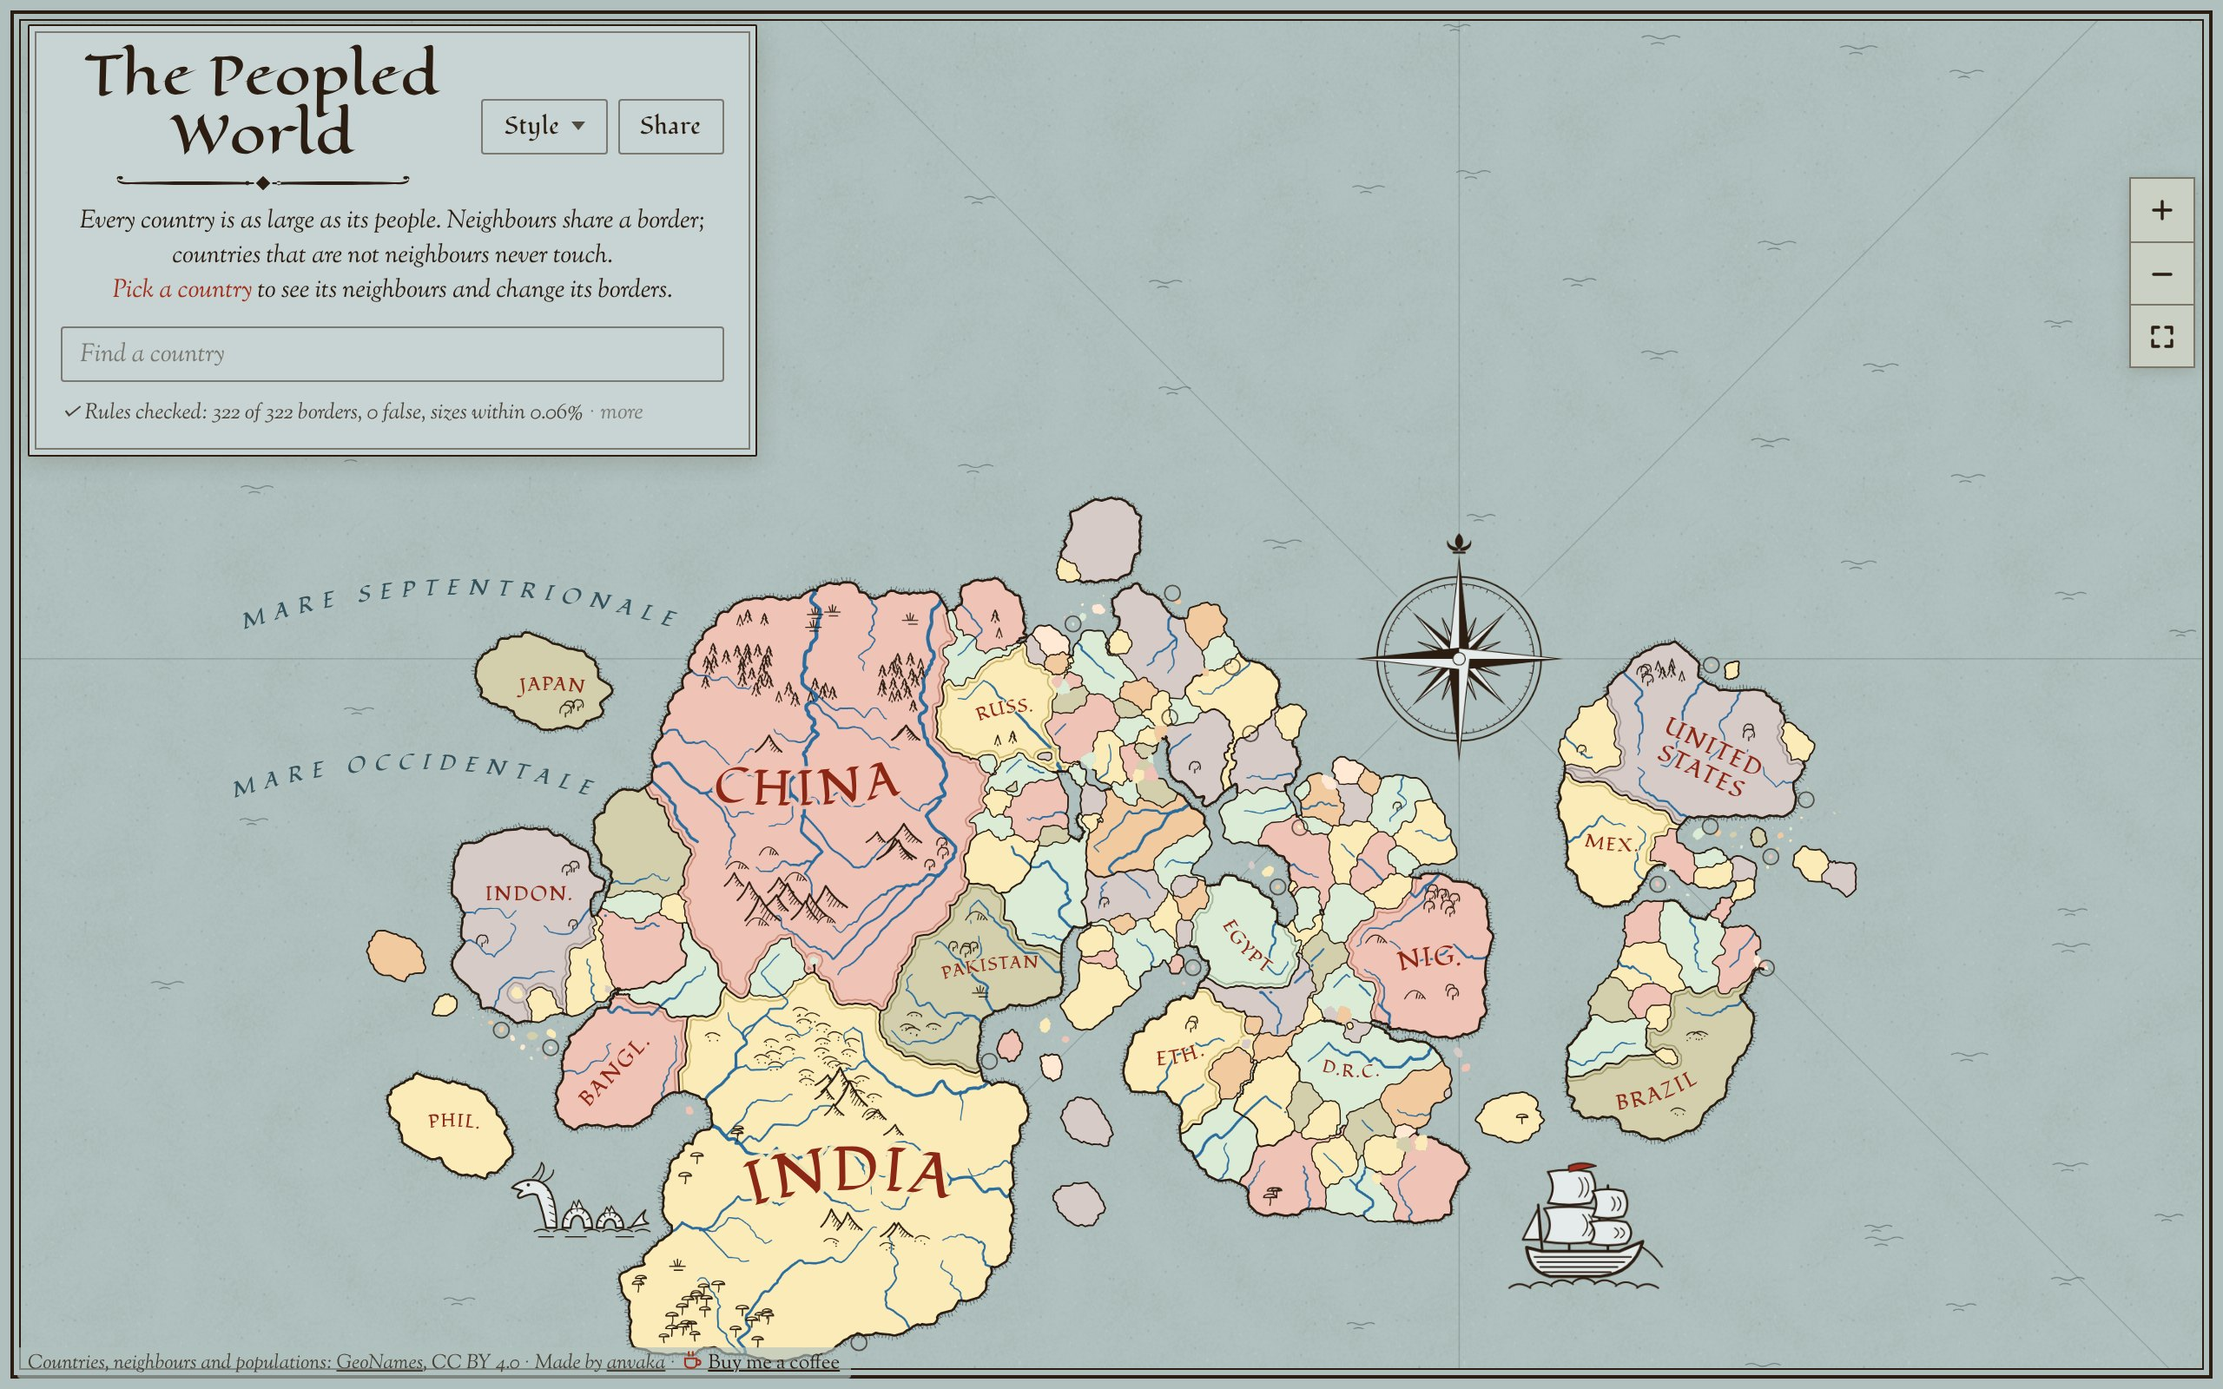
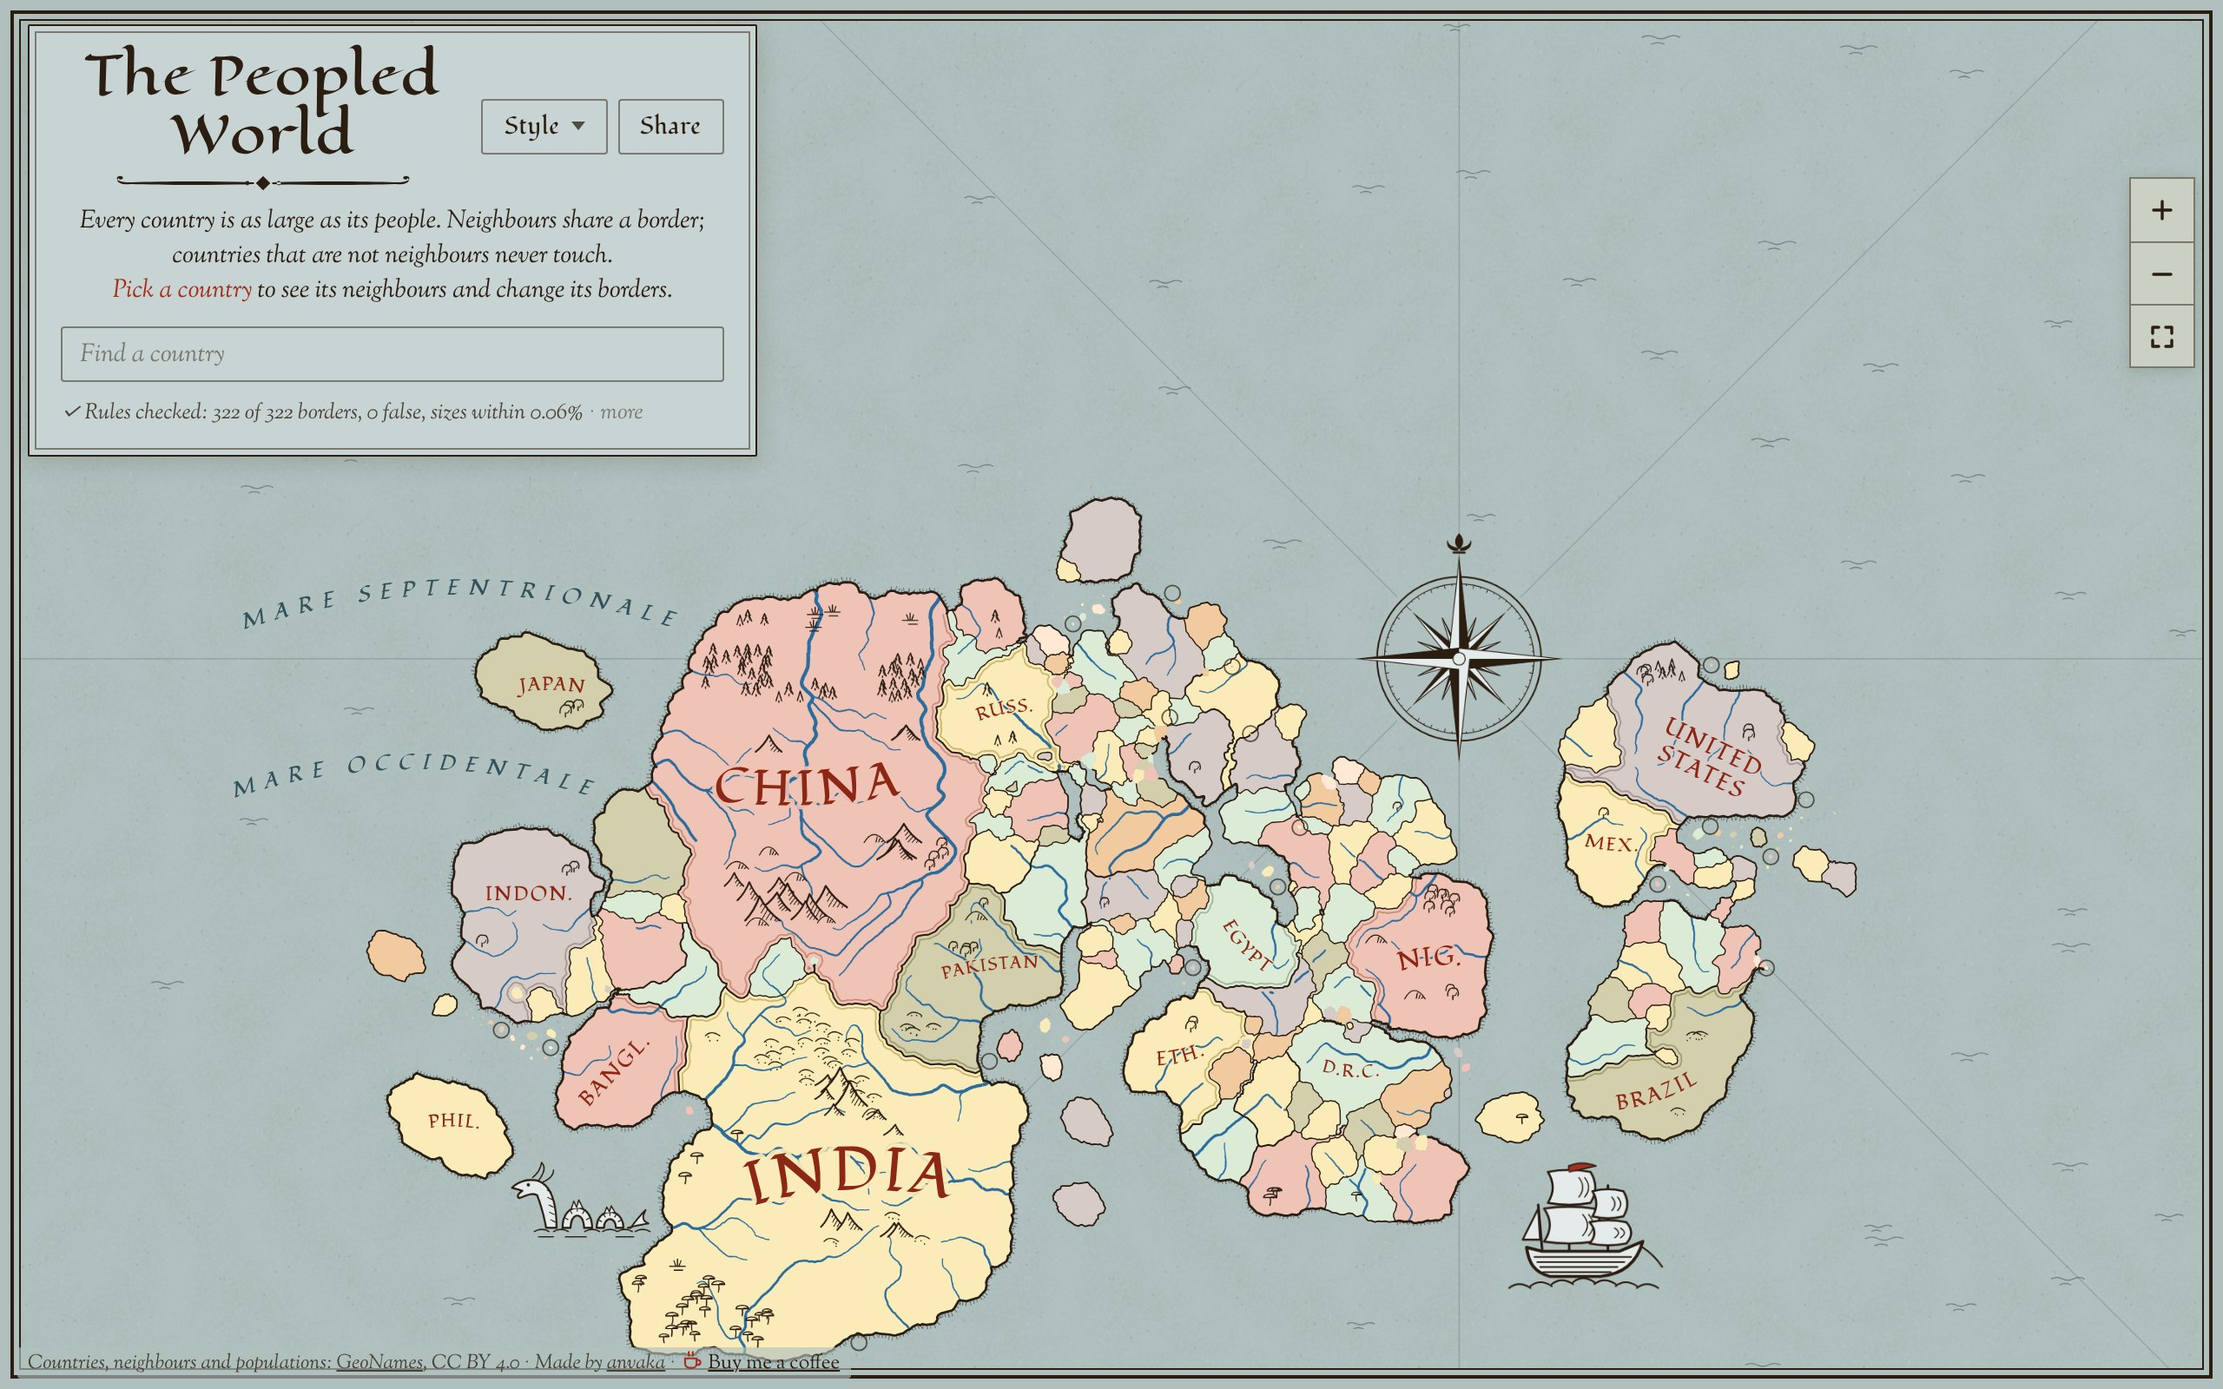
Rivers meet cleanly: a tributary ends on its river's line, and none cross
Zoomed in, the joins showed: a tributary's line stopped short of the
river it joined or ran past it, the two often crossed, and courses kept
the grid's straight runs and corners. Each river's bends were its own,
so the two lines at a join did not agree on where it was.

- Where two streams meet, the larger is the river and runs on; the
  smaller ends there. The largest rivers are drawn first.
- A river joins a larger one where it first comes within two cells of
  it, and ends on a point of that river's line. Should it still meet a
  river drawn before it on the way, it ends there.
- The bends are a push of the map itself, the same for every river, so
  two that meet still meet and two that do not, do not cross. Each river
  keeps only small turns of its own.
- Courses are smoothed before they are drawn: no grid steps or corners.

Over 33 worlds: no tributary ends off its river, no two rivers cross and
none loops. Before, in worlds 1 to 3, 25 to 30 of some 35 tributaries
ended off their river (by up to 0.39 map units) and 17 to 22 pairs of
rivers crossed.

Claude-Session: https://claude.ai/code/session_01XkvsTjoUZYTPz2hH7KHLHn

diff --git a/terrain.js b/terrain.js
@@ -14,13 +14,15 @@
 //     foot      Float32Array, w * h: the high ground the ranges stand on, 0 to 1 (foothills)
 //     shown     the value of `mountain` from which a style draws mountains
 //     rivers    [{points: Float64Array (x, y, x, y, ...; y up), flow: Float32Array}], each from its
-//               source down to the sea or to the river it joins; flow is the land it has drained
-//               by each point, in square map units (rain falls more on the heights)
+//               source down to the sea or to the river it joins, the largest first. One that joins
+//               another ends on a point of that river's line, and no two cross. flow is the land
+//               a river has drained by each point, in square map units (rain falls more on the
+//               heights)
 //     riverMin  the flow from which a stream counts as a river. Each river is drawn from higher up,
 //               thinner, so that it is seen to rise where it does
 //   }
 import {noise2, hypot} from './util.js';
-import {landOf, edt, spread, markLine, CELL} from './land.js';
+import {landOf, edt, spread, markLine, valueAt, CELL} from './land.js';
 
 const smoothstep = (a, b, x) => { const t = Math.max(0, Math.min(1, (x - a) / (b - a))); return t * t * (3 - 2 * t); };
 const hashStr = s => { let h = 2166136261; for (let i = 0; i < s.length; ++i) { h ^= s.charCodeAt(i); h = Math.imul(h, 16777619); } return (h >>> 0) / 4294967296; };
@@ -317,7 +319,8 @@ export function makeTerrain(world, seed = 1) {
   }
 
   lap('flood');
-  // ---- rivers: the cells that gather enough, each traced from its source down
+  // ---- rivers: the cells that gather enough. Where two streams meet, the larger is the river and
+  // runs on; the smaller is its tributary and ends there, on the river's line
   const isRiver = i => land(i) && flow[i] >= RIVER_MIN;
   const upBest = new Int32Array(N).fill(-1), hasUp = new Uint8Array(N);
   for (let i = 0; i < N; ++i) {
@@ -326,69 +329,153 @@ export function makeTerrain(world, seed = 1) {
     if (upBest[d] < 0 || flow[i] > flow[upBest[d]]) upBest[d] = i;
     if (isRiver(i)) hasUp[d] = 1;
   }
+  // the heads (where a stream first counts as a river), the largest rivers first: by what each
+  // carries where it ends, at the sea or in a larger river. So a river is drawn before any that
+  // joins it
   const heads = [];
-  for (let i = 0; i < N; ++i) if (isRiver(i) && !hasUp[i]) heads.push(i);
-  heads.sort((a, b) => flow[b] - flow[a] || a - b);
-  const taken = new Uint8Array(N), rivers = [];
-  for (const head of heads) {
+  for (let i = 0; i < N; ++i) {
+    if (!isRiver(i) || hasUp[i]) continue;
+    let e = i;
+    while (down[e] >= 0 && land(down[e]) && upBest[down[e]] === e) e = down[e];
+    heads.push([i, flow[e]]);
+  }
+  heads.sort((a, b) => b[1] - a[1] || a[0] - b[0]);
+  // The courses bend. Every point of the map is pushed aside a little, by a slow wave and a quicker
+  // one: the same push for every river, so two that meet still meet and two that do not, do not
+  // cross. No push at the coast (a river ends where its water does) nor by a border (it crosses
+  // one square on)
+  const fieldsOf = {grid: G};
+  const pushed = (x, y) => {
+    const u = x * K, v = y * K;
+    const hold = smoothstep(0, 1.2, valueAt(fieldsOf, inland, x, y)) * smoothstep(0.3, 1.6, valueAt(fieldsOf, borderD, x, y)) / K;
+    return [x + hold * (0.4 * noise2(u / 2.5, v / 2.5, ns + 6) + 0.13 * noise2(u / 0.9, v / 0.9, ns + 7)),
+      y + hold * (0.4 * noise2(u / 2.5 + 37.2, v / 2.5 - 11.8, ns + 8) + 0.13 * noise2(u / 0.9 - 5.3, v / 0.9 + 21.4, ns + 9))];
+  };
+  // owner: the river through each cell (its place in `rivers`); place: how many cells down that
+  // river's course the cell is
+  const owner = new Int32Array(N).fill(-1), place = new Int32Array(N), rivers = [];
+  // drawn: the pieces of the rivers' lines that start in each cell, as a chain through `links`
+  // (river, point, the next piece in the cell)
+  const drawn = new Int32Array(N).fill(-1), links = [];
+  for (const [head] of heads) {
     // up its largest stream to where the river rises; a source is clear of the borders' ridges (a
     // river that begins on a border looks cut off by it)
     const source = [];
-    for (let u = upBest[head]; u >= 0 && !taken[u] && flow[u] >= SOURCE_MIN; u = upBest[u]) source.push(u);
+    for (let u = upBest[head]; u >= 0 && owner[u] < 0 && flow[u] >= SOURCE_MIN; u = upBest[u]) source.push(u);
     while (source.length && borderD[source[source.length - 1]] < RIDGE) source.pop();
     source.reverse();
-    const path = [...source, head];
-    for (const j of path) taken[j] = 1;
-    let i = head;
-    while (down[i] >= 0) {
+    // down to the sea, or to a larger river. It joins that river where it first comes alongside
+    // it, within two cells: two rivers so close are one to the eye, and drawn side by side they
+    // would run together or cross
+    let cells = [...source, head], join = -1;
+    for (let i = head; ;) {
+      const x = i % w, y = (i - x) / w;
+      for (let dy = -2; dy <= 2; ++dy) for (let dx = -2; dx <= 2; ++dx) {
+        const xx = x + dx, yy = y + dy;
+        if (xx < 0 || yy < 0 || xx >= w || yy >= h) continue;
+        const q = yy * w + xx;
+        if (owner[q] >= 0 && flow[q] >= flow[i] && (join < 0 || flow[q] > flow[join])) join = q;
+      }
+      if (join >= 0) break;
       const j = down[i];
-      path.push(j);
-      if (taken[j] || !land(j)) break;
-      taken[j] = 1;
+      if (j < 0) break;
+      if (owner[j] >= 0) { join = j; break; }
+      cells.push(j);
+      if (!land(j)) break;
       i = j;
     }
     // (one that starts on a border's ridge and has no stream above it starts below the ridge)
     let start = 0;
-    while (start < path.length - 1 && land(path[start]) && borderD[path[start]] < RIDGE && !source.length) ++start;
-    const cells = path.slice(start);
-    if (cells.length < 6) continue;
-    // meanders: resampled at half a cell, pushed sideways by a slow and a quick wave of noise along
-    // the course (less where the river is young, by a border or at its ends), then smoothed
-    // (Chaikin, twice)
-    let pts = [], fl = [], bd = [];
-    for (let k = 0; k + 1 < cells.length; ++k) for (let t = 0; t < 1; t += 0.5) {
-      const a = cells[k], b = cells[k + 1];
-      pts.push([xOf(a) + (xOf(b) - xOf(a)) * t, yOf(a) + (yOf(b) - yOf(a)) * t]);
-      fl.push(Math.min(flow[a], flow[b]) > 0 ? flow[a] + (flow[b] - flow[a]) * t : flow[a]);
-      bd.push(Math.min(borderD[a], borderD[b]));
+    while (start < cells.length - 1 && land(cells[start]) && borderD[cells[start]] < RIDGE && !source.length) ++start;
+    cells = cells.slice(start);
+    if (cells.length + (join >= 0 ? 1 : 0) < 6) continue;
+    // the course: the cells' middles, pushed; the last, where it joins, on the larger river's line
+    let pts = cells.map(c => pushed(xOf(c), yOf(c))), fl = cells.map(c => land(c) ? flow[c] : 0);
+    const R = join >= 0 ? rivers[owner[join]].points : null;
+    let met = -1;        // the point of the larger river's line where this one meets it
+    if (R) {
+      const at = pushed(xOf(join), yOf(join)), mid = Math.min(8 * place[join], R.length / 2 - 1);
+      for (let q = Math.max(0, mid - 12), d2 = Infinity; q <= Math.min(R.length / 2 - 1, mid + 12); ++q) {
+        const d = (R[2 * q] - at[0]) ** 2 + (R[2 * q + 1] - at[1]) ** 2;
+        if (d < d2) { d2 = d; met = q; }
+      }
+      pts.push([R[2 * met], R[2 * met + 1]]);
+      fl.push(fl[fl.length - 1]);
     }
-    const last = cells[cells.length - 1];
-    pts.push([xOf(last), yOf(last)]); fl.push(fl[fl.length - 1]); bd.push(borderD[last]);
-    // (a river's flow never falls on its way down: the cell it ends in may be the sea's)
+    // (a river's flow never falls on its way down: the cell it ends in is the sea's, or another river's)
     for (let k = 1; k < fl.length; ++k) if (fl[k] < fl[k - 1]) fl[k] = fl[k - 1];
+    // the grid's steps and corners smoothed away (the ends stay where they are)
+    for (let pass = 0; pass < 3; ++pass) {
+      const np = pts.map(p => p);
+      for (let k = 1; k + 1 < pts.length; ++k) np[k] = [0.25 * pts[k - 1][0] + 0.5 * pts[k][0] + 0.25 * pts[k + 1][0], 0.25 * pts[k - 1][1] + 0.5 * pts[k][1] + 0.25 * pts[k + 1][1]];
+      pts = np;
+    }
+    // a smooth line through those points (Catmull-Rom), four to a cell
+    let line = [], fline = [];
+    for (let k = 0; k + 1 < pts.length; ++k) {
+      const p0 = pts[Math.max(0, k - 1)], p1 = pts[k], p2 = pts[k + 1], p3 = pts[Math.min(pts.length - 1, k + 2)];
+      for (let t = 0; t < 1; t += 0.25) {
+        const t2 = t * t, t3 = t2 * t;
+        line.push([0.5 * (2 * p1[0] + (p2[0] - p0[0]) * t + (2 * p0[0] - 5 * p1[0] + 4 * p2[0] - p3[0]) * t2 + (3 * p1[0] - p0[0] - 3 * p2[0] + p3[0]) * t3),
+          0.5 * (2 * p1[1] + (p2[1] - p0[1]) * t + (2 * p0[1] - 5 * p1[1] + 4 * p2[1] - p3[1]) * t2 + (3 * p1[1] - p0[1] - 3 * p2[1] + p3[1]) * t3)]);
+        fline.push(fl[k] + (fl[k + 1] - fl[k]) * t);
+      }
+    }
+    line.push(pts[pts.length - 1]); fline.push(fl[fl.length - 1]);
+    // the small turns of a river's own, too small to bring it near another: a wave along its
+    // course, none at its ends
     let along = 0;
     const key = head % 9973;
-    pts = pts.map((p, k) => {
-      const a = pts[Math.max(0, k - 2)], b = pts[Math.min(pts.length - 1, k + 2)];
+    line = line.map((p, k) => {
+      const a = line[Math.max(0, k - 1)], b = line[Math.min(line.length - 1, k + 1)];
       const dx = b[0] - a[0], dy = b[1] - a[1], l = hypot(dx, dy) || 1;
-      if (k) along += hypot(p[0] - pts[k - 1][0], p[1] - pts[k - 1][1]) * K;
-      const ends = Math.min(1, k / 4, (pts.length - 1 - k) / 4) * smoothstep(0.3, 1.6, bd[k]);
-      const off = (0.4 * noise2(along / 2.5, key * 0.37, ns + 6) + 0.16 * noise2(along / 0.9, key * 0.37, ns + 7)) * ends / K;
+      if (k) along += hypot(p[0] - line[k - 1][0], p[1] - line[k - 1][1]) * K;
+      const off = 0.05 * noise2(along / 0.33, key * 0.37, ns + 10) * Math.min(1, k / 6, (line.length - 1 - k) / 6) / K;
       return [p[0] - dy / l * off, p[1] + dx / l * off];
     });
-    for (let it = 0; it < 2; ++it) {
-      const np = [pts[0]], nf = [fl[0]];
-      for (let k = 0; k + 1 < pts.length; ++k) {
-        const [ax, ay] = pts[k], [bx, by] = pts[k + 1];
-        np.push([0.75 * ax + 0.25 * bx, 0.75 * ay + 0.25 * by], [0.25 * ax + 0.75 * bx, 0.25 * ay + 0.75 * by]);
-        nf.push(0.75 * fl[k] + 0.25 * fl[k + 1], 0.25 * fl[k] + 0.75 * fl[k + 1]);
-      }
-      np.push(pts[pts.length - 1]); nf.push(fl[fl.length - 1]);
-      pts = np; fl = nf;
+    // (and its corners cut once: Chaikin)
+    const points = new Float64Array(4 * line.length), told = new Float32Array(2 * line.length);
+    let n = 0;
+    const put = (x, y, f) => { points[2 * n] = x; points[2 * n + 1] = y; told[n++] = f; };
+    put(line[0][0], line[0][1], fline[0]);
+    for (let k = 0; k + 1 < line.length; ++k) {
+      const [ax, ay] = line[k], [bx, by] = line[k + 1];
+      put(0.75 * ax + 0.25 * bx, 0.75 * ay + 0.25 * by, 0.75 * fline[k] + 0.25 * fline[k + 1]);
+      put(0.25 * ax + 0.75 * bx, 0.25 * ay + 0.75 * by, 0.25 * fline[k] + 0.75 * fline[k + 1]);
     }
-    const points = new Float64Array(2 * pts.length);
-    pts.forEach((p, k) => { points[2 * k] = p[0]; points[2 * k + 1] = p[1]; });
-    rivers.push({points, flow: Float32Array.from(fl, f => f / (K * K)), told: Float32Array.from(fl)});
+    put(line[line.length - 1][0], line[line.length - 1][1], fline[fline.length - 1]);
+    // A river ends where it first meets one drawn before it: the river it joins, as a rule at the
+    // point found above, or another that came between (two tributaries that reach a river side by
+    // side). Its last point is then a point of that river's line
+    meet: for (let k = 0; k + 1 < n; ++k) {
+      const ax = points[2 * k], ay = points[2 * k + 1], bx = points[2 * k + 2], by = points[2 * k + 3];
+      const gx = Math.floor((ax - x0) / cell), gy = Math.floor((y0 - ay) / cell);
+      let hit = 2, to = -1, of = null;
+      for (let yy = Math.max(0, gy - 1); yy <= Math.min(h - 1, gy + 1); ++yy) for (let xx = Math.max(0, gx - 1); xx <= Math.min(w - 1, gx + 1); ++xx) {
+        for (let e = drawn[yy * w + xx]; e >= 0; e = links[3 * e + 2]) {
+          const S = rivers[links[3 * e]].points, q = links[3 * e + 1];
+          const cx = S[2 * q], cy = S[2 * q + 1], dx = S[2 * q + 2], dy = S[2 * q + 3];
+          const d = (bx - ax) * (dy - cy) - (by - ay) * (dx - cx);
+          if (d === 0) continue;
+          const t = ((cx - ax) * (dy - cy) - (cy - ay) * (dx - cx)) / d, u = ((cx - ax) * (by - ay) - (cy - ay) * (bx - ax)) / d;
+          if (t < 0 || t > 1 || u < 0 || u > 1 || t >= hit) continue;
+          hit = t; of = S; to = u < 0.5 ? q : q + 1;
+        }
+      }
+      if (!of) continue;
+      points[2 * k + 2] = of[2 * to]; points[2 * k + 3] = of[2 * to + 1];
+      n = k + 2;
+      break meet;
+    }
+    cells.forEach((c, k) => { if (land(c)) { owner[c] = rivers.length; place[c] = k; } });
+    rivers.push({points: points.slice(0, 2 * n), flow: Float32Array.from(told.subarray(0, n), f => f / (K * K)), told: told.slice(0, n)});
+    // (its line, by cell, for the rivers still to come)
+    for (let q = 0; q + 1 < n; ++q) {
+      const gx = Math.floor((points[2 * q] - x0) / cell), gy = Math.floor((y0 - points[2 * q + 1]) / cell);
+      if (gx < 0 || gy < 0 || gx >= w || gy >= h) continue;
+      links.push(rivers.length - 1, q, drawn[gy * w + gx]);
+      drawn[gy * w + gx] = links.length / 3 - 1;
+    }
   }
   // Where a river passes through a range the range is broken: a gap as wide as the valley. (Its
   // headwaters, above where it counts as a river, rise among the mountains.)

diff --git a/README.md b/README.md
@@ -117,7 +117,8 @@ forks get no preview.
    ones, on their highest stretches, and along some long borders. Rain run off the ground with
    its ranges, more of it on the heights, gives the rivers, each drawn from its source down. So
    a river rises in the mountains or runs along their feet, keeps off the borders, and where it
-   passes through a range the range is broken.
+   passes through a range the range is broken. Where two rivers meet, the larger runs on and the
+   smaller ends on its line; no two cross.
 9. **Valleys.** Each river gets the valley it would have cut (`valleys.js`): wider and deeper the
    more water it carries. Nothing is worn down grain by grain; a style that shows relief lowers
    the ground by the valley's depth, so its rivers lie in the land and not on it.
